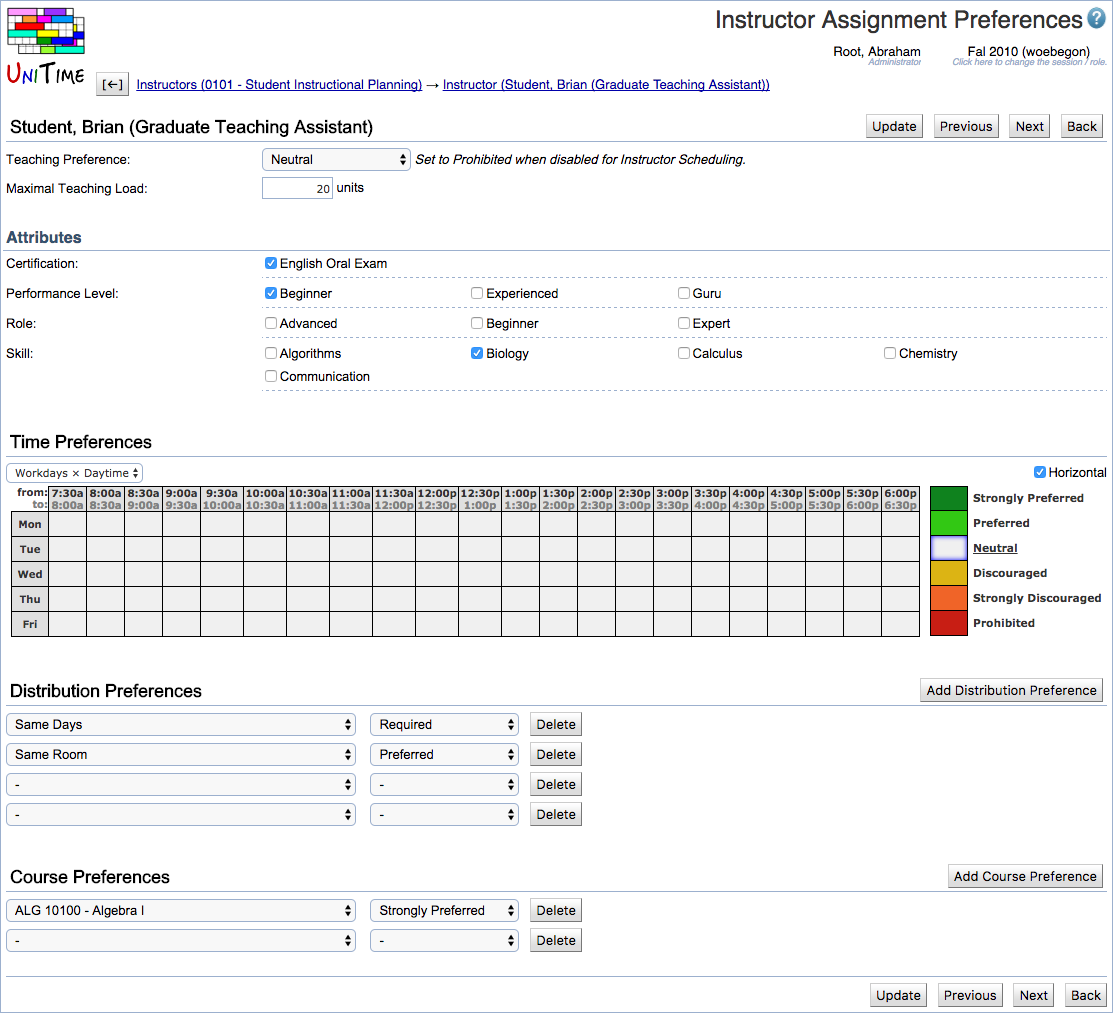
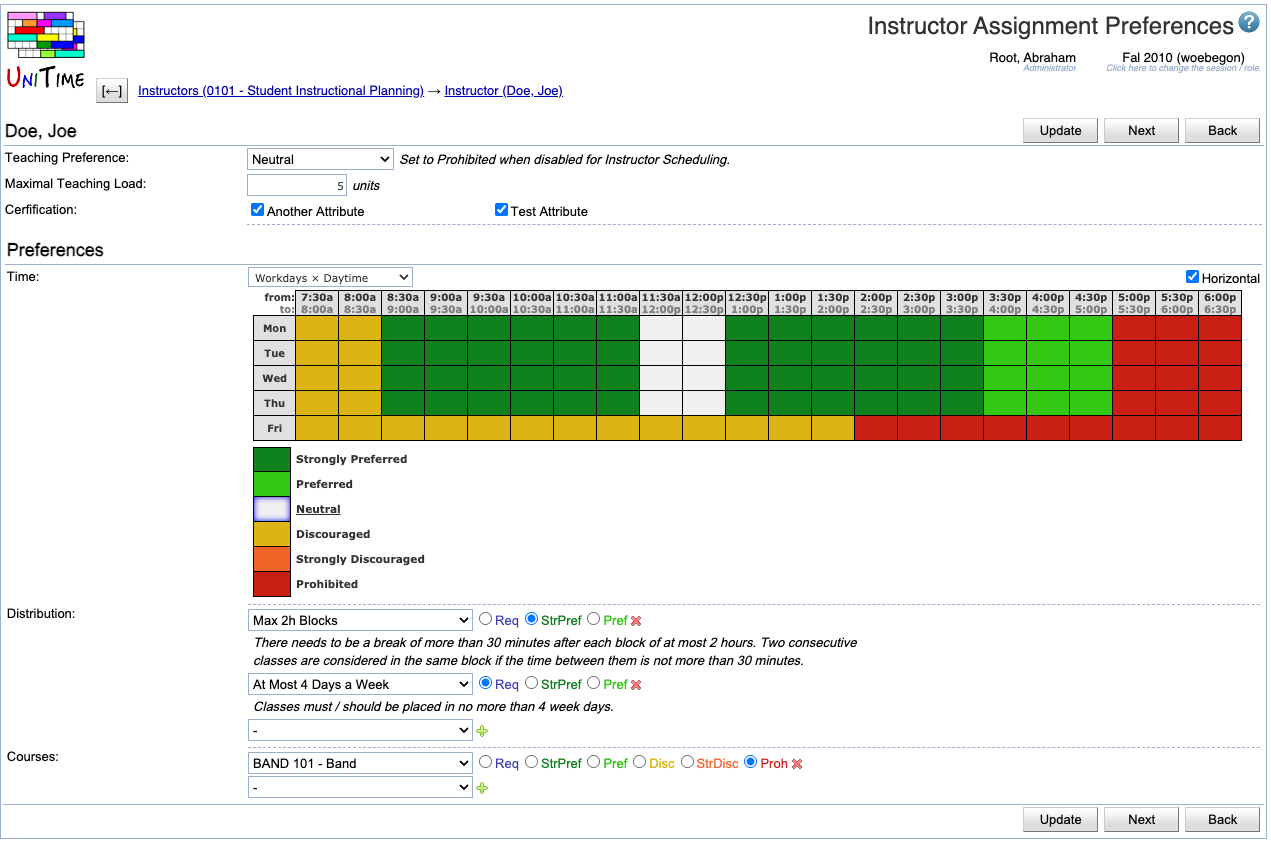
Instructor Preferences, Instructor Assignment Preferences
- new screenshots, new fields, text cleanup

Changed region(s): [[0.0, 0.0, 1.0, 1.0]]

diff --git a/instructor-preferences.md b/instructor-preferences.md
@@ -6,7 +6,7 @@ title: Instructor Preferences
 
 ## Screen Description
 
-In the Instructor Preferences screen, you can enter instructor's preferences which will then be applied to the classes to which this instructor is assigned as (if conflict checking is turned on for those classes). The rules explaining how preferences are applied on classes are located in [Application Of Preferences](application-of-preferences).
+In the Instructor Preferences screen, you can enter the instructor's preferences, which will then be applied to the classes to which this instructor is assigned (if conflict-checking is turned on for those classes). The rules explaining how preferences are applied to classes are located in [Application Of Preferences](application-of-preferences).
 
 ![Instructor Preferences](images/instructor-preferences-1.png){:class='screenshot'}
 
@@ -14,103 +14,78 @@ In the Instructor Preferences screen, you can enter instructor's preferences whi
 
 **Time Preferences**
 
-* Select the size (range) of time grid that you want to work with in the drop down menu above the time grid
-	* The default setting that you see when you enter the screen is what you can set up in the [Manager Settings](manager-settings) screen (in the main menu, go to Preferences → Settings; then click on "Time Grid Default Selection" to change the default time grid
-
-* Indicate the instructor's time preferences by filling in the half hour time slots with appropriate colors (click on the colored square in the legend and then on the squares in the time grid that you want to fill in with this preference level)
-
-* Click on the day of week to fill in the grid for the whole day
-
+* Select the size (range) of the time grid that you want to work with in the drop-down menu above the time grid
+    * The default setting that you see when you enter the screen is what you can set up in the [Manager Settings](manager-settings) screen (in the main menu, go to Preferences → Settings; then click on "Time Grid Default Selection" to change the default time grid
+* Indicate the instructor's time preferences by filling in the half-hour time slots with appropriate colors (click on the colored square in the legend and then on the squares in the time grid that you want to fill in with this preference level)
+* Click on the day of the week to fill in the grid for the whole day (or combination of days)
 * Click on a particular time to fill in the grid for this time (across all the days)
-
-* Click on the upper left hand side corner (which has "from:" and "to:") to fill in the whole time grid
-
-* Note: To express that e.g. the instructor cannot teach on Tuesday and Thursday, fill in Tuesday and Thursday times as "Prohibited" (rather than setting Monday, Wednesday, and Friday as "Required") ; this leaves you flexibility to indicate preferred or discouraged times within Monday, Wednesday, and Friday
-
-**Room Group Preferences**
-
-* Select a room group from the first drop down list and the preference level from the second drop down list
-
-* You can see only those room groups that are listed in your [Room Groups](room-groups) screen - if you need to add another room group, go to Courses → Input Data → Room Groups
-
-* To add more lines for additional room group preferences, click on **Add Room Group Preference** (Alt+G)
-
-* To delete a line with a room group preference, click on the **Delete** button on that line
-
-* Blank lines are ignored
+* Click on the upper left-hand side corner (which has "from:" and "to:") to fill in the whole time grid
+* Note: To express that, e.g., the instructor cannot teach on Tuesday and Thursday, fill in Tuesday and Thursday times as "Prohibited"
 
 **Room Preferences**
 
-* Select a room from the first drop down list and the preference level from the second drop down list
-
-* You can see only those rooms that are listed in your [Rooms](rooms) screen (look at [Rooms](rooms) to see how to add new rooms to your list)
-
-* To add more lines for additional room preferences, click on **Add Room Preference** (Alt+R)
-
-* To delete a line with a room preference, click on the **Delete** button on that line
-
+* Select a room from the first drop-down list and the preference level from one of the options
+* You can see only those rooms that are listed in the [Rooms](rooms) screen for the department managed by the manager listed in your Edit Scheduling Subpart screen (look at [Rooms](rooms) to see how to add new rooms to your list of departmental rooms)
+* To add more lines for additional room preferences, click the ![Add](images/icon-add.png) plus icon
+* To delete a line with a room preference, click on the ![Delete](images/icon-delete.png) cross icon on that line
 * Blank lines are ignored
 
 **Building Preferences**
 
-* Select a building from the first drop down list and the preference level from the second drop down list
-
-* You can see only those buildings that are listed in your [Rooms](rooms) screen (in other words, only buildings in which you have some rooms)
-
-* To add more lines for additional building preferences, click on **Add Building Preference** (Alt+D)
-
-* To delete a line with a building preference, click on the **Delete** button on that line
-
+* Select a building from the first drop-down list and the preference level from one of the options
+* You can see only those buildings that are listed in your [Rooms](rooms) screen for the department of this scheduling subpart's manager
+* To add more lines for additional building preferences, click the ![Add](images/icon-add.png) plus icon
+* To delete a line with a building preference, click on the ![Delete](images/icon-delete.png) cross icon on that line
 * Blank lines are ignored
 
 **Room Feature Preferences**
 
-* Select a room feature from the first drop down list and the preference level from the second drop down list
+* Select a room feature from the first drop-down list and the preference level from one of the options
+* You can see only those room features that are listed in the [Rooms](rooms) screen
+* If you need to add another room feature for your departmental rooms, go to the menu, to Courses → Input Data → [Room Features](room-features)
+* To add more lines for additional room feature preferences, click the ![Add](images/icon-add.png) plus icon
+* To delete a line with a room feature preference, click on the ![Delete](images/icon-delete.png) cross icon on that line
+* Blank lines are ignored
 
-* You can see only those room features that are listed in your [Room Features](room-features) screen - if you need to add another room feature, go to Courses → Input Data → Room Features
+**Room Group Preferences**
 
-* To add more lines for additional room feature preferences, click on **Add Room Feature Preference** (Alt+F)
-
-* To delete a line with a room feature preference, click on the **Delete** button on that line
-
+* Select a room group from the first drop-down list and the preference level from one of the options
+* You can see only those room groups that are applicable to classes of the given manager (for example, for LLR classes you can see groups of large lecture rooms); for your departmental classes, you can see only those room groups that are listed in your [Room Groups](room-groups) screen - if you need to add another room group, go to the menu, to Courses → Input Data → [Room Groups](room-groups)
+* To add more lines for additional room group preferences, click the ![Add](images/icon-add.png) plus icon
+* To delete a line with a room group preference, click on the ![Delete](images/icon-delete.png) cross icon on that line
 * Blank lines are ignored
 
 **Distribution Preferences**
 
 * The distribution preferences that you set up on an instructor will be applied to all the classes that the instructor is teaching, but only during the departmental timetabling
-	* Example: If the instructor teaches three classes and you put in that he/she requires his/her classes to be back-to-back, all three of these classes will have to be back-to-back; if you want to specify which two of these three classes need to be back-to-back, you will need to put the distribution preference on the classes themselves, not on the instructor (you can do that for example by clicking on "Add Distribution Preference" in the [Class Detail](class-detail) screen of one of those classes)
+    * Example: If the instructor teaches three classes and you put in that he/she requires his/her classes to be back-to-back, all three of these classes will have to be back-to-back; if you want to specify which two of these three classes need to be back-to-back, you will need to put the distribution preference on the classes themselves, not on the instructor (you can do that for example by clicking on "Add Distribution Preference" in the [Class Detail](class-detail) screen of one of those classes)
 
-* Select a distribution preference from the first drop down list and the preference level from the second drop down list
-
-* Only a subset of all distribution preferences is available here (only this subset can be set on instructors, the other distribution preferences have to be set on scheduling subparts or on classes)
-
-* To add more lines for additional distribution preferences, click on **Add Distribution Preference** (Alt+A)
-
-* To delete a line with a distribution preference, click on the **Delete** button on that line
-
+* Select a distribution preference from the first drop-down list and the preference level from one of the options
+* Only a subset of all distribution preferences is available here (only this subset can be set on instructors; the other distribution preferences have to be set on scheduling subparts or on classes)
+* To add more lines for additional distribution preferences, click the ![Add](images/icon-add.png) plus icon
+* To delete a line with a distribution preference, click on the ![Delete](images/icon-delete.png) cross icon on that line
 * Blank lines are ignored
 
 **Unavailable Dates**
 
 * This table can be used to mark the days of the semester when the instructor is not available to teach classes.
-
-* This means, that a class (of such an instructor) cannot be placed on a time that would have a meeting on a day when the instructor is unavailable.
-	* Please note that this setting is not very practical for regular classes (classes that meet every week during the whole semester) as having an instructor unavailable on one Monday of the term would prohibit such a class from being placed on Mondays. It is more useful for instructors that teach classes that only meet a few times during the semester (typically for a longer period). 
-	* The instructor availability also works for the instructor assignment problem and it is possible to change where the **Unavailable Dates** section will appear by setting the tmtbl.instructor.unavaibleDates property (on the Administration > Defaults > [Configuration](application-configuration) page). It can show on the Instructor Preferences page (which is the default), on the Instructor Assignment Preferences page, on both these pages, or it can be disabled.
+* This means that a class (of such an instructor) cannot be placed on a time that would have a meeting on a day when the instructor is unavailable.
+    * Please note that this setting is not very practical for regular classes (classes that meet every week during the whole semester), as having an instructor unavailable on one Monday of the term would prohibit such a class from being placed on Mondays. It is more useful for instructors who teach classes that only meet a few times during the semester (typically for a longer period). 
+    * The instructor availability also works for the instructor assignment problem, and it is possible to change where the **Unavailable Dates** section will appear by setting the `tmtbl.instructor.unavaibleDates` property (on the Administration > Defaults > [Configuration](application-configuration) page). It can show on the Instructor Preferences page (which is the default), on the Instructor Assignment Preferences page, and on both these pages, or it can be disabled.
 
 ## Operations
 
 * **Update** (Alt+U)
-	* Save the preferences and go back to the [Instructor Detail](instructor-detail) screen
+    * Save the preferences and go back to the [Instructor Detail](instructor-detail) screen
 
 * **Clear Instructor Preferences** (Alt+C)
-	* Clear all the instructor's preferences in this page and go back to the [Instructor Detail](instructor-detail) screen (where you can see that the preferences have been cleared)
+    * Clear all the instructor's preferences on this page and go back to the [Instructor Detail](instructor-detail) screen (where you can see that the preferences have been cleared)
 
 * **Previous** (Alt+P)
-	* Save the preferences and go to the Instructor Preferences screen for the previous instructor from your list
+    * Save the preferences and go to the Instructor Preferences screen for the previous instructor from your list
 
 * **Next** (Alt+N)
-	* Save the preferences and go to the Instructor Preferences screen for the next instructor from your list
+    * Save the preferences and go to the Instructor Preferences screen for the next instructor from your list
 
 * **Back** (Alt+B)
-	* Go back to the [Instructor Detail](instructor-detail) screen without saving any changes in the preferences
+    * Go back to the [Instructor Detail](instructor-detail) screen without saving any changes in the preferences

diff --git a/instructor-assignment-preferences.md b/instructor-assignment-preferences.md
@@ -12,7 +12,26 @@ Instructor attributes and other requirements can be set on the instructors. Ther
 
 ## Details
 
-This page allows setting the teaching preference (defaults to Prohibited -- the instructor cannot be used for the automated instructor scheduling), maximal teaching load, instructor attributes (grouped by type), time preferences, distribution preferences, and course preferences. The time and distribution preferences are the same as on the Instructor Preferences page. Distribution preferences other than Back-To-Back, Same Room, and Same Days are ignored by the instructor scheduling solver at the moment.
+This page allows setting the teaching preference (defaults to Prohibited -- the instructor cannot be used for the automated instructor scheduling), maximal teaching load, instructor attributes (grouped by type), time preferences, distribution preferences, and course preferences. The time and distribution preferences are the same as on the Instructor Preferences page. 
+
+The following distribution preferences are supported by the instructor scheduling solver (since UniTime 4.2):
+* Back-To-Back: Classes are to be placed one after another, with no breaks in between
+* Same Room: Classes are to be placed in the same room
+* Same Days: Classes are to be placed in the same days of the week
+
+The following distribution preferences have been added in UniTime 4.8 build 182
+* At Most N Hours A Day: Classes are to be placed in a way that there is no more than given number of hours in any day.
+* Same Weeks: Given classes must be taught during the same weeks (i.e., must have the same date pattern).
+* N Hour Workday: Classes are to be placed in a way that there is no more than given number of hours between the start of the first class and the end of the class one on any day.
+* Minimal Gap Between Classes: Classes need to be placed in a way that there is at least the given number of minutes between any two of them.
+* Max Block: Given classes must be taught in a way there is a break between two blocks of classes.
+* Max Breaks: Limit number of breaks between adjacent classes on a day.
+* Max Days: Limit number of days of a week.
+* Break: There must be a break of a given length in a given time interval.
+* Max Weeks: Limit number of weeks on which an a class can take place.
+* Max Holes: Minimize free time of an instructor during a day (between the first and the last class).
+* Max Half-Days: Limit number of half-days of a week.
+* Max Consecutive Days: Limit number of consecutive days of a week.
 
 The new attribute and preferences are also displayed on the Instructor Detail page and on the Instructors list.
 

diff --git a/university-timetabling-application.md b/university-timetabling-application.md
@@ -39,7 +39,7 @@ title: UniTime Online Help
 	* [Instructor Detail](instructor-detail)
 		* [Edit Instructor](edit-instructor)
 			* [People Lookup](people-lookup)
-			* [Instructor Preferences](instructor-preferences)
+		* [Instructor Preferences](instructor-preferences)
 		* [Instructor Assignment Preferences](instructor-assignment-preferences)
 	* [Manage Instructor List](manage-instructor-list)
 	* [Add Instructor](add-instructor)
